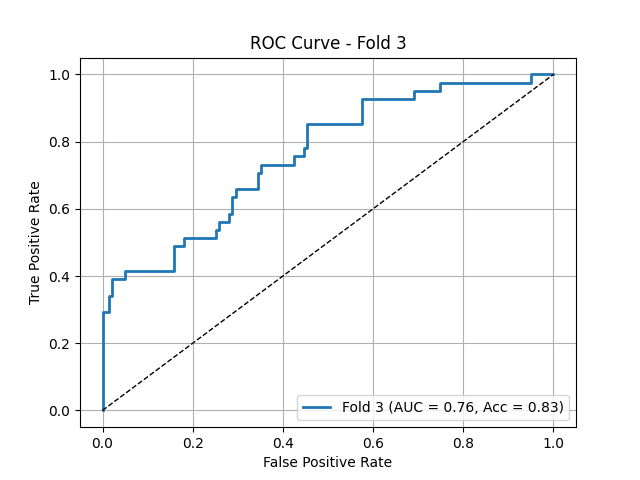
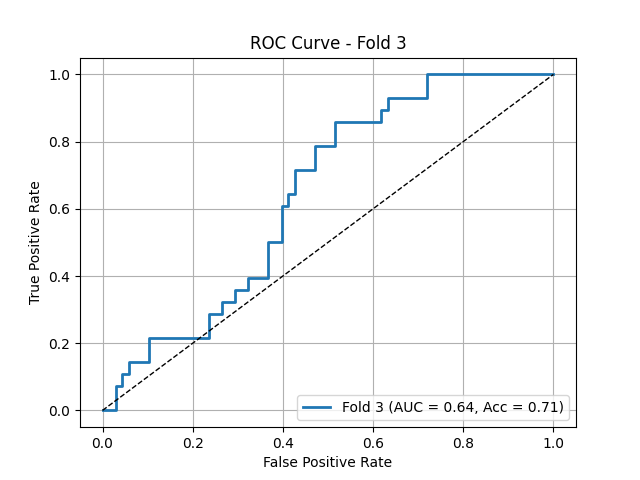
more noise, slight scale zoom

diff --git a/dataset_washu2.py b/dataset_washu2.py
@@ -112,7 +112,7 @@ train_transform = A.Compose([
     A.GridDistortion(distort_limit=0.1, p=0.3),
     
     # Intensity-related augmentations
-    A.GaussNoise(std_range=(0.001, 0.01), p=0.5),  # Slightly reduced noise
+    A.GaussNoise(mean_range=(-0.05, 0.05), std_range=(0.001, 0.05), p=0.9),  # Slightly reduced noise
     A.RandomBrightnessContrast(brightness_limit=0.05, contrast_limit=0.005, p=0.5),
     
     A.Downscale(scale_min=0.85, scale_max=0.99, p=0.3),
